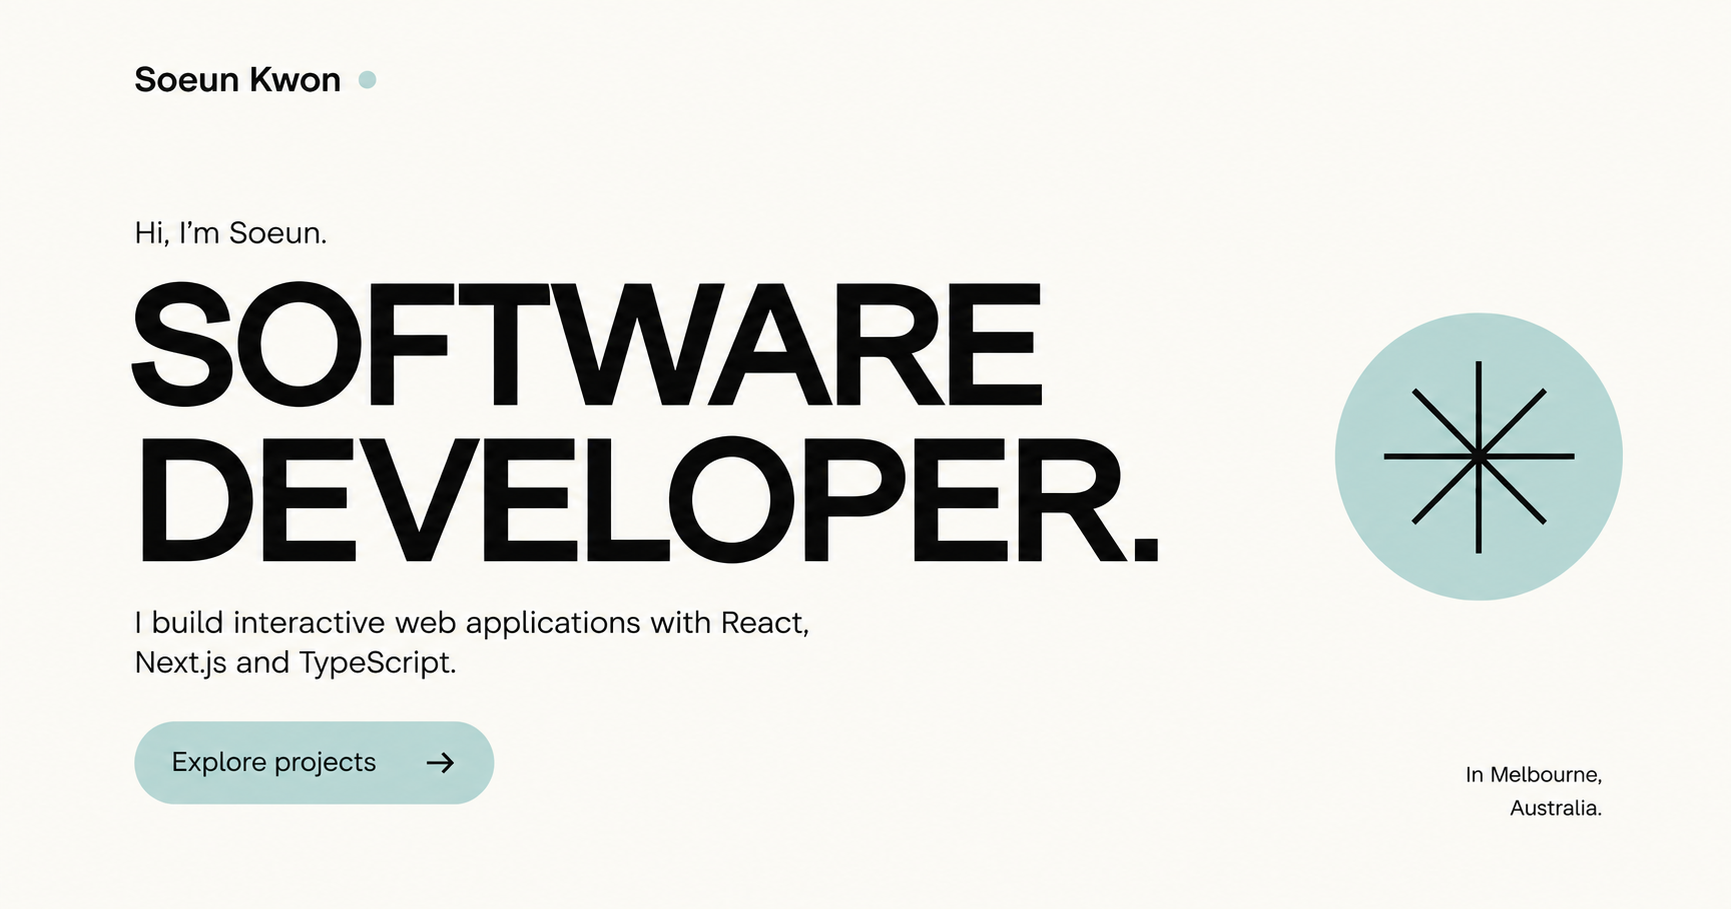
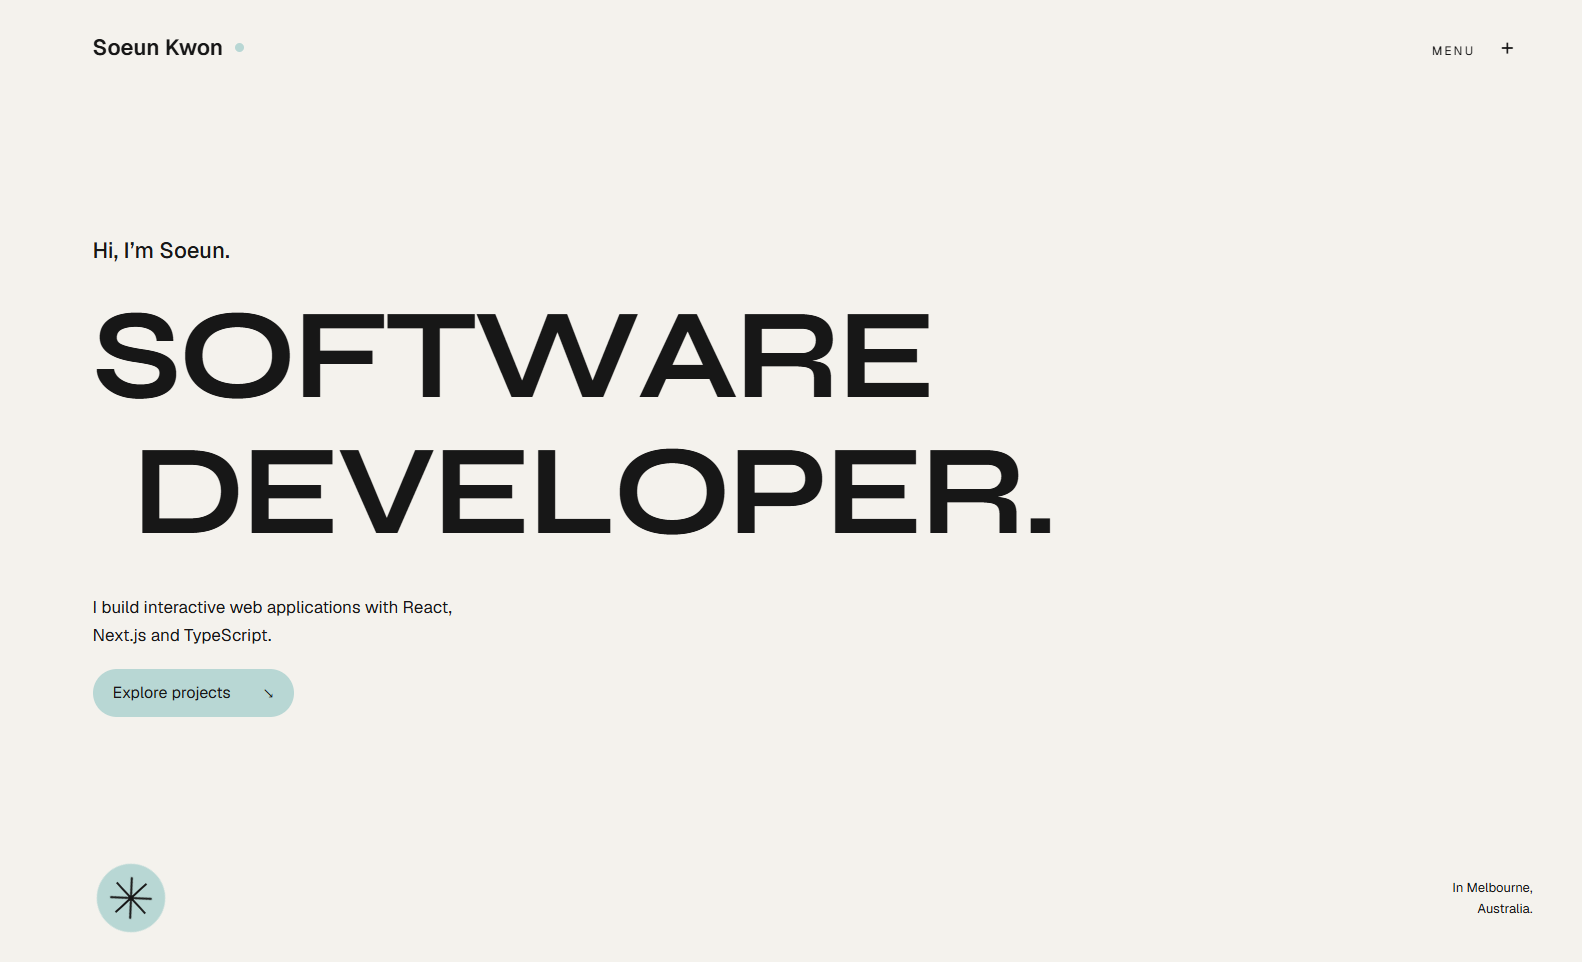
Add portfolio social preview image

diff --git a/app/layout.tsx b/app/layout.tsx
@@ -13,7 +13,7 @@ const syne = Syne({
   display: "swap",
 });
 
-export const metadata = {
+export const metadata: Metadata = {
   title: "Soeun Kwon",
   description: "Software developer portfolio of Soeun Kwon.",
   openGraph: {
@@ -26,10 +26,16 @@ export const metadata = {
         url: "/og-image.png",
         width: 1200,
         height: 630,
-        alt: "Soeun Kwon Software Developer Portfolio",
+        alt: "Soeun Kwon portfolio preview",
       },
     ],
     type: "website",
+  },
+  twitter: {
+    card: "summary_large_image",
+    title: "Soeun Kwon",
+    description: "Software Developer Portfolio",
+    images: ["/og-image.png"],
   },
 };
 
